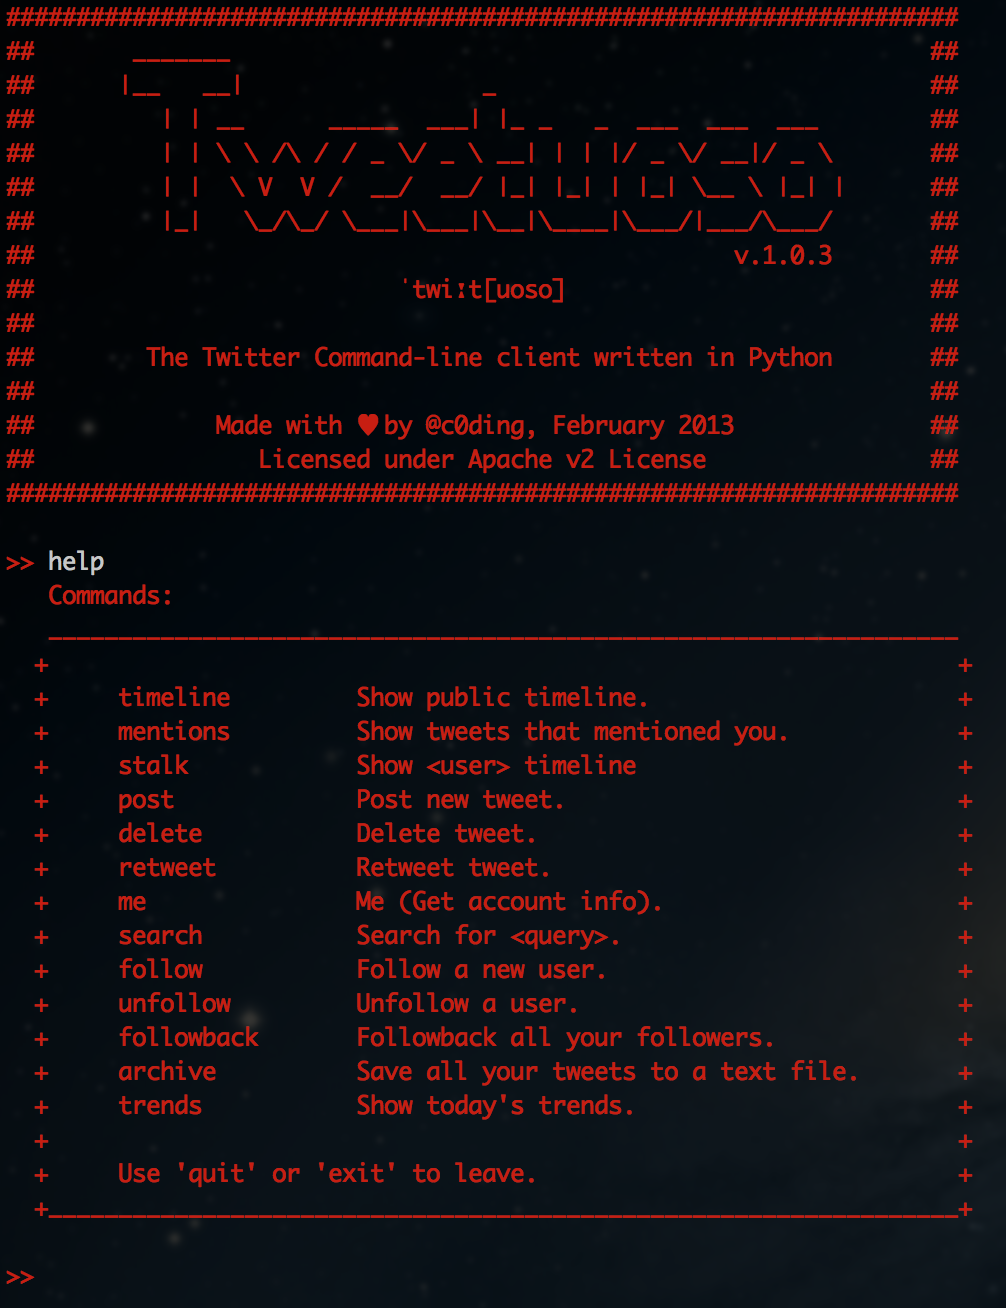
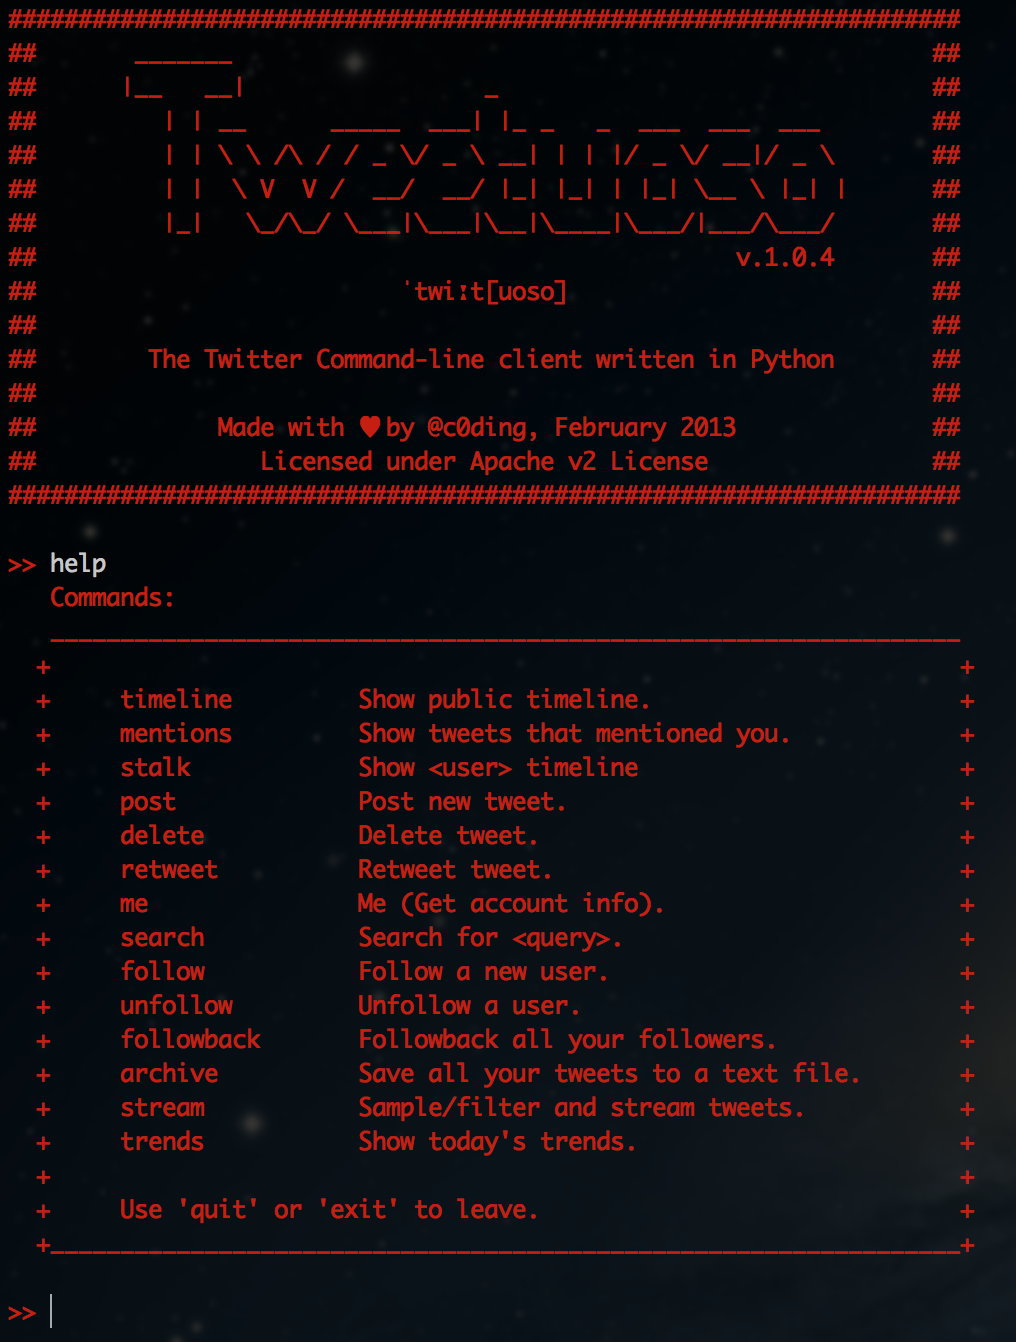
Added stream()

diff --git a/tweetuoso/tweetuoso.py b/tweetuoso/tweetuoso.py
@@ -72,9 +72,25 @@ def auth_():
 	auth.set_access_token(keys['access_token'], keys['access_secret'])
 	api = tw.API(auth)
 	return api
+	
+class Listener(tw.StreamListener):
+	
+	def on_status(self, tweet):
+		tweet.text = tweet.text.replace("\n", " ")
+		print("   @" + Fore.RED + tweet.user.screen_name.encode('utf-8')
+				+ Fore.RESET +
+				tweet.created_at.strftime(
+					Style.DIM +' tweeted on %d/%m/%Y at %H:%M' + Style.RESET_ALL) + "\n      " +
+					tweet.text.encode('utf-8') + "\n      " + 'http://twitter.com/'+tweet.author.screen_name.encode('utf-8')+'/status/'+str(tweet.id))
+							
+	def on_error(self, status_code):
+		print "Error occured: %s" % status_code
+		
+	def on_timeout(self):
+		return True
 
 class TweetuosoCommands(cmd.Cmd):
-
+	
 	prompt = Fore.RED + ">> " + Fore.RESET
 
 	def emptyline(self):
@@ -260,6 +276,24 @@ class TweetuosoCommands(cmd.Cmd):
 		except tw.TweepError as error:
 			prompt_print("Error occured: %s" % error)
 			
+	def do_stream(self, mode):
+		def auth_stream():
+			api = tw.OAuthHandler(keys['consumer_key'], keys['consumer_secret'])
+			api.set_access_token(keys['access_token'], keys['access_secret'])
+			return api
+		try:
+			api = auth_stream()
+			if mode == 'sample':
+				stream = tw.Stream(api, Listener())
+				stream.sample()
+			if mode == 'filter':
+				track_list = raw_input(Fore.RED + ">> " + Fore.RESET + "Keywords to track (comma separated): ")
+				','.join(track_list)
+				stream = tw.streaming.Stream(api, Listener())
+				stream.filter(follow=None, track=[track_list])
+		except KeyboardInterrupt:
+			os.system("clear") 
+			stream.disconnect()
 			
 	def do_archive(self, line):
 		""" Archive your tweets to a .txt file. """
@@ -316,6 +350,7 @@ class TweetuosoCommands(cmd.Cmd):
 		print "  +\tunfollow\t Unfollow a user.                           +"
 		print "  +\tfollowback\t Followback all your followers.             +"
 		print "  +\tarchive\t\t Save all your tweets to a text file.       +"
+		print "  +\tstream\t\t Sample/filter and stream tweets.           +"
 		print "  +\ttrends\t\t Show today's trends.                       +"
 		print "  +                                                                 +"
 		print "  +     Use 'quit' or 'exit' to leave.                              +"

diff --git a/README.md b/README.md
@@ -23,6 +23,7 @@ For now, it allows you to:
 * show current trends
 * automatically followback your followers
 * Archive all your tweets to a text file
+* stream tweets (sample or filter mode)
 
 More is still to come...
 
